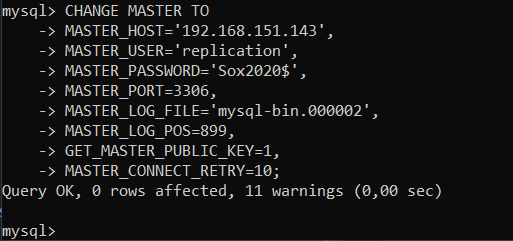
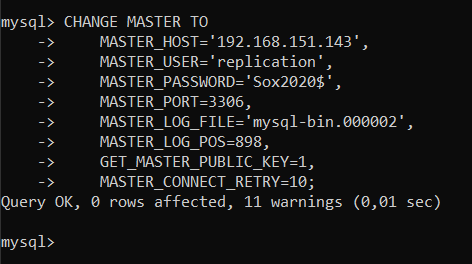
WIP: acabat repliques, començant percona toolkit

diff --git a/Ac4-Replica-i-Backup/Configuracio-Sistema-Replica/README.MD b/Ac4-Replica-i-Backup/Configuracio-Sistema-Replica/README.MD
@@ -267,86 +267,73 @@ I ara arriba la part de la configuració de `CHANGE MASTER TO` en el `Slave`. On
 I la comanda per aquest cas seria:
 ```
 mysql> CHANGE MASTER TO
-    -> MASTER_HOST='192.168.151.143',
-    -> MASTER_USER='replication',
-    -> MASTER_PASSWORD='Sox2020$',
-    -> MASTER_PORT=3306,
-    -> MASTER_LOG_FILE='mysql-bin.000002',
-    -> MASTER_LOG_POS=899,
-    -> GET_MASTER_PUBLIC_KEY=1,
-    -> MASTER_CONNECT_RETRY=10;
+    MASTER_HOST='192.168.151.143',
+    MASTER_USER='replication',
+    MASTER_PASSWORD='Sox2020$',
+    MASTER_PORT=3306,
+    MASTER_LOG_FILE='mysql-bin.000002',
+    MASTER_LOG_POS=898,
+    GET_MASTER_PUBLIC_KEY=1,
+    MASTER_CONNECT_RETRY=10;
 ```
 <details open>
-<summary><b>Farem el change master to</b></summary>
+<summary><b>Farem el change master to en el Slave</b></summary>
 <img src="captures/change_master_to.png">
 </details>
 
-I ara amb la sentència `START SLAVE` la màquina començarà a ser el Slave.
+I ara amb la sentència `START SLAVE` la màquina començarà a ser el Slave, i iniciarem la replicació
 ```
 msyql> START SLAVE;
 ```
+<details open>
+<summary><b>Començar la rèplica</b></summary>
+<img src="captures/start_slave.png">
+</details>
 
-COMENZAMOS EL SLAVE  Y EN TEORIA TIENE K IR
-START SLAVE;
+I ara mirarem el Status del Slave, verificarem que no hi ha cap problema, i mirarem que el `Slave` estigui esperant canvis i el `IO_THREAD` estigui esperant events.
+```
+mysql> SHOW SLAVE STATUS \G
+```
+<details open>
+<summary><b>Mirar l'estat del slave i assegurar-nos de que està esperant events</b></summary>
+<img src="captures/slave_status.png">
+<img src="captures/slave_status2.png">
+</details>
 
-SHOW SLAVE STATUS \G
+L'estat de l'anterior status és correcte, però ara falta la comprovació de que realment està fent la rèplica. El que farem serà importar la BD de Sakila en el Master i veurem si es replica cap al Slave.
 
-------------------------------
+Primer de tot mirarem que no tenim cap BD de Sakila en cap de les dues màquines.
+<details open>
+<summary><b>Mirarem que no tenim Sakila-DB</b></summary>
+<img src="captures/no_sakila.png">
+</details>
 
-PERCONA TOOLKIT
+Ara, en el `Master` importarem la BD de Sakila. Tant el `SCHEMA` com el `DATA`.
 
-SI EN RHEL TENEMOS PORBLEMA DE REPOSITORIO, HACER LO SIGUIENTE:
+Per descarregar sakila ja s'ha explicat en els anterior apartats, un breu resum són les següents comandes:
+```
+# wget https://downloads.mysql.com/docs/sakila-db.tar.gz
+# tar -xvzf sakila-db.tar.gz
+```
 
-dnf clean all
-rm -frv /var/cache/dnf
-subscription-manager refresh
-dnf update
+I ara si ara importarem la BD de `Sakila` en el `Master`
+```
+mysql> SOURCE /root/sakila-db/sakila-schema.sql
+```
+```
+mysql> SOURCE /root/sakila-db/sakila-data.sql
+```
+<details open>
+<summary><b>Importar Sakila Schema en el Master</b></summary>
+<img src="captures/import_sakila_schema.png">
+</details>
+<details open>
+<summary><b>Importar Sakila Data en el Master</b></summary>
+<img src="captures/import_sakila_data.png">
+</details>
 
-INSTALAMOS PERCONA TOOLKIT
-sudo yum install percona-toolkit
-
-Hacemos pt checksum, QUE LO QUE HACE ÉS MIRAR LA INTEGRIDAD DE LOS DATOS ENTRE MASTER Y SLAVE Y NOS DICE SI HAY ALGUNA DIFERENCIA ENTRE LA TABLA DEL MASTER Y SERVER
-miramos el documentar perldoc y miramos el manual k tenems en linux
---nocheck-binlog-format
-
--d github    (--databases)
-
--h localhost
--u root
--p Sox2020$
-
---slave-user
---slave-password
-
- pt-table-checksum -u root -pSox2020$ -h localhost --no-check-binlog-format --slave-user=replication --slave-password=Sox2020$ --databases=github
-
- Si no pones --slave user ni slave password da error diiend k no se puede conectar
-
- ahora importamos sakila y hacemos esto 
-  pt-table-checksum -u root -pSox2020$ -h localhost --no-check-binlog-format --slave-user=replication --slave-password=Sox2020$ --databases=sakila
-
-  En el slave hacemos un update de actor por ejemplo, y luego volvemos a poner la comanda y nos dice que hay una diferencia al hacer checsum
-  pt-table-checksum -u root -pSox2020$ -h localhost --no-check-binlog-format --slave-user=replication --slave-password=Sox2020$ --databases=sakila
-
-TS ERRORS  DIFFS     ROWS  DIFF_ROWS  CHUNKS SKIPPED    TIME TABLE
-05-25T06:33:00      0      1      200          0       1       0   0.317 sakila.actor
-
-CLARO AHORA COMO ARREGLAMOS LOS DIFFS? PUES TENEMS LA EINA PT TALBE SYNC QUE PODEMOS DECIR QUE EL EN E CASO QUE HAYA DIFS QUE EL SLAVE VUELVA A SINCRONIZAR PERÒ HACIENDO CASO AL MASTER Y ESA TABLA SE HABRA ARREGLADO DE LOS DIFFS.
-
-Ahora con  table sync miraremos en el servidor de replicacion que cambios han hecho que no estan en el master
-pt-table-sync --sync-to-master h=192.168.151.142,u=replication,p=Sox2020$,P=3306 --databases=sakila --tables=actor --print
-
-una vez que miramos los cambios, hacemos la sync, no miramos check de cpnstraint ni tablas de hijos:
-
-pt-table-sync --sync-to-master h=192.168.151.142,u=replication,p=Sox2020$,P=3306 --databases=sakila --tables=actor --no-check-child-tables --no-foreign-key-checks --execute
-
-
-
-sino nos da este problema, aunque bueno, estando en el master no tenemos que tenre los datos mal y nos podemos fiar y hacer quen o compruebe las foraneas ya qeu en el master me lo habran introducido bien
-
-pt-table-sync --sync-to-master h=192.168.151.142,u=replication,p=Sox2020$,P=3306 --databases=sakila --tables=actor --execute
-Cannot delete or update a parent row: a foreign key constraint fails (`sakila`.`film_actor`, CONSTRAINT `fk_film_actor_actor` FOREIGN KEY (`actor_id`) REFERENCES `actor` (`actor_id`) ON DELETE RESTRICT ON UPDATE CASCADE) [for Statement "REPLACE INTO `sakila`.`actor`(`actor_id`, `first_name`, `last_name`, `last_update`) VALUES ('1', 'PENELOPE', 'GUINESS', '2006-02-15 04:34:33') /*percona-toolkit src_db:sakila src_tbl:actor src_dsn:P=3306,h=192.168.151.143,p=...,u=replication dst_db:sakila dst_tbl:actor dst_dsn:P=3306,h=192.168.151.142,p=...,u=replication lock:1 transaction:1 changing_src:1 replicate:0 bidirectional:0 pid:29192 user:root host:localhost.localdomain*/"] at line 10950 while doing sakila.actor on 192.168.151.142
-
-I despres si tornem a fer checksum ja no tindrem diferencies
-
-pt-table-checksum -u root -pSox2020$ -h localhost --no-check-binlog-format --slave-user=replication --slave-password=Sox2020$ --databases=sakila
+I ara si tornem a comprovar, veurem que les dades han sigut replicades cap al `Slave` i que en les dues màquines tenim les mateixes dades.
+<details open>
+<summary><b>Verificar que la replicació es realitza correctament.</b></summary>
+<img src="captures/replication_done.png">
+</details>

diff --git a/Ac4-Replica-i-Backup/Eines-Percona-Toolkit/README.MD b/Ac4-Replica-i-Backup/Eines-Percona-Toolkit/README.MD
@@ -1,0 +1,65 @@
+# Ús de Percona Toolkit <img align="right" width="185" src="../imatges/percona_toolkit_logo.png"/>
+
+
+
+
+
+
+
+PERCONA TOOLKIT
+
+SI EN RHEL TENEMOS PORBLEMA DE REPOSITORIO, HACER LO SIGUIENTE:
+
+dnf clean all
+rm -frv /var/cache/dnf
+subscription-manager refresh
+dnf update
+
+INSTALAMOS PERCONA TOOLKIT
+sudo yum install percona-toolkit
+
+Hacemos pt checksum, QUE LO QUE HACE ÉS MIRAR LA INTEGRIDAD DE LOS DATOS ENTRE MASTER Y SLAVE Y NOS DICE SI HAY ALGUNA DIFERENCIA ENTRE LA TABLA DEL MASTER Y SERVER
+miramos el documentar perldoc y miramos el manual k tenems en linux
+--nocheck-binlog-format
+
+-d github    (--databases)
+
+-h localhost
+-u root
+-p Sox2020$
+
+--slave-user
+--slave-password
+
+ pt-table-checksum -u root -pSox2020$ -h localhost --no-check-binlog-format --slave-user=replication --slave-password=Sox2020$ --databases=github
+
+ Si no pones --slave user ni slave password da error diiend k no se puede conectar
+
+ ahora importamos sakila y hacemos esto 
+  pt-table-checksum -u root -pSox2020$ -h localhost --no-check-binlog-format --slave-user=replication --slave-password=Sox2020$ --databases=sakila
+
+  En el slave hacemos un update de actor por ejemplo, y luego volvemos a poner la comanda y nos dice que hay una diferencia al hacer checsum
+  pt-table-checksum -u root -pSox2020$ -h localhost --no-check-binlog-format --slave-user=replication --slave-password=Sox2020$ --databases=sakila
+
+TS ERRORS  DIFFS     ROWS  DIFF_ROWS  CHUNKS SKIPPED    TIME TABLE
+05-25T06:33:00      0      1      200          0       1       0   0.317 sakila.actor
+
+CLARO AHORA COMO ARREGLAMOS LOS DIFFS? PUES TENEMS LA EINA PT TALBE SYNC QUE PODEMOS DECIR QUE EL EN E CASO QUE HAYA DIFS QUE EL SLAVE VUELVA A SINCRONIZAR PERÒ HACIENDO CASO AL MASTER Y ESA TABLA SE HABRA ARREGLADO DE LOS DIFFS.
+
+Ahora con  table sync miraremos en el servidor de replicacion que cambios han hecho que no estan en el master
+pt-table-sync --sync-to-master h=192.168.151.142,u=replication,p=Sox2020$,P=3306 --databases=sakila --tables=actor --print
+
+una vez que miramos los cambios, hacemos la sync, no miramos check de cpnstraint ni tablas de hijos:
+
+pt-table-sync --sync-to-master h=192.168.151.142,u=replication,p=Sox2020$,P=3306 --databases=sakila --tables=actor --no-check-child-tables --no-foreign-key-checks --execute
+
+
+
+sino nos da este problema, aunque bueno, estando en el master no tenemos que tenre los datos mal y nos podemos fiar y hacer quen o compruebe las foraneas ya qeu en el master me lo habran introducido bien
+
+pt-table-sync --sync-to-master h=192.168.151.142,u=replication,p=Sox2020$,P=3306 --databases=sakila --tables=actor --execute
+Cannot delete or update a parent row: a foreign key constraint fails (`sakila`.`film_actor`, CONSTRAINT `fk_film_actor_actor` FOREIGN KEY (`actor_id`) REFERENCES `actor` (`actor_id`) ON DELETE RESTRICT ON UPDATE CASCADE) [for Statement "REPLACE INTO `sakila`.`actor`(`actor_id`, `first_name`, `last_name`, `last_update`) VALUES ('1', 'PENELOPE', 'GUINESS', '2006-02-15 04:34:33') /*percona-toolkit src_db:sakila src_tbl:actor src_dsn:P=3306,h=192.168.151.143,p=...,u=replication dst_db:sakila dst_tbl:actor dst_dsn:P=3306,h=192.168.151.142,p=...,u=replication lock:1 transaction:1 changing_src:1 replicate:0 bidirectional:0 pid:29192 user:root host:localhost.localdomain*/"] at line 10950 while doing sakila.actor on 192.168.151.142
+
+I despres si tornem a fer checksum ja no tindrem diferencies
+
+pt-table-checksum -u root -pSox2020$ -h localhost --no-check-binlog-format --slave-user=replication --slave-password=Sox2020$ --databases=sakila
